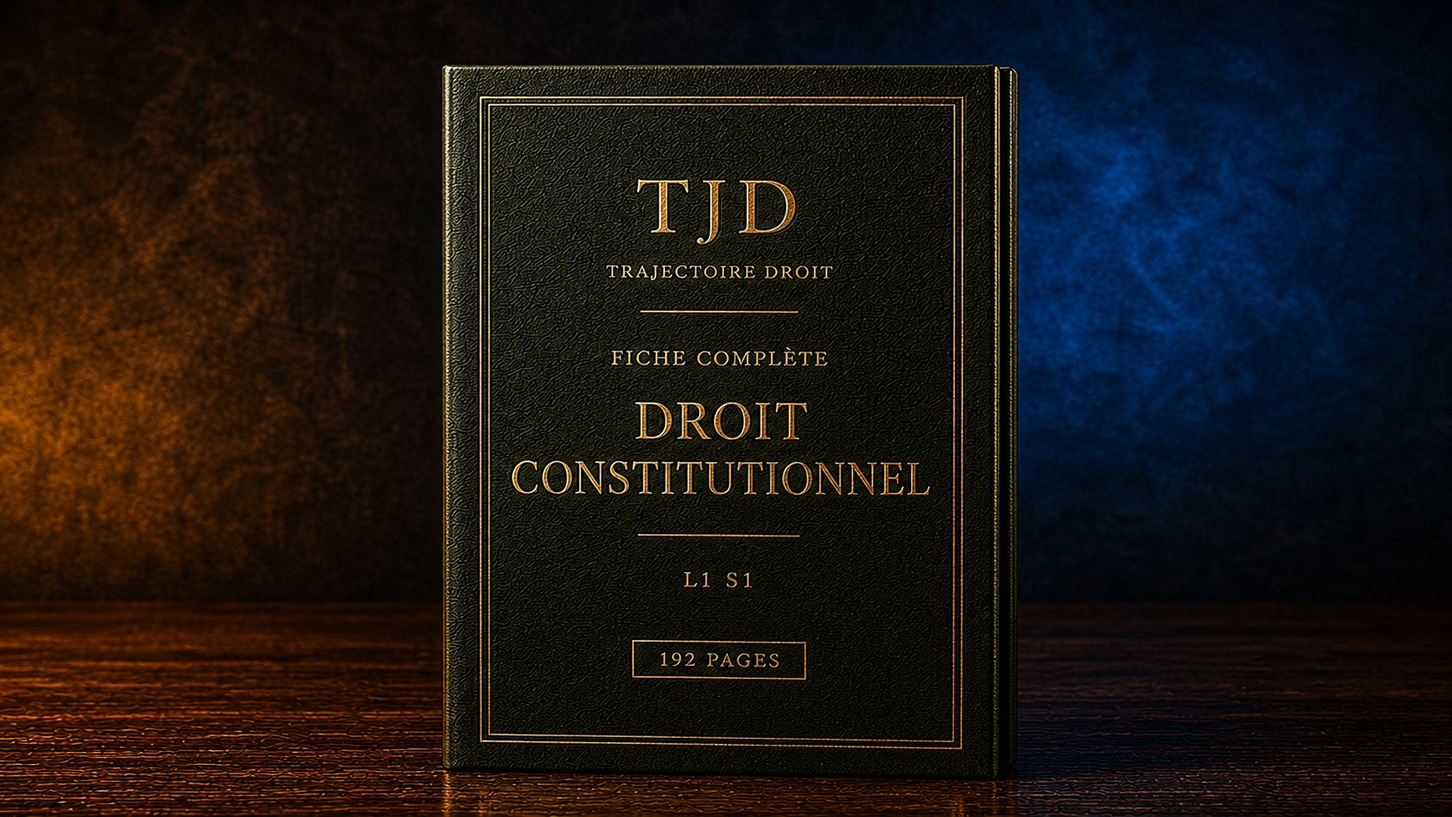
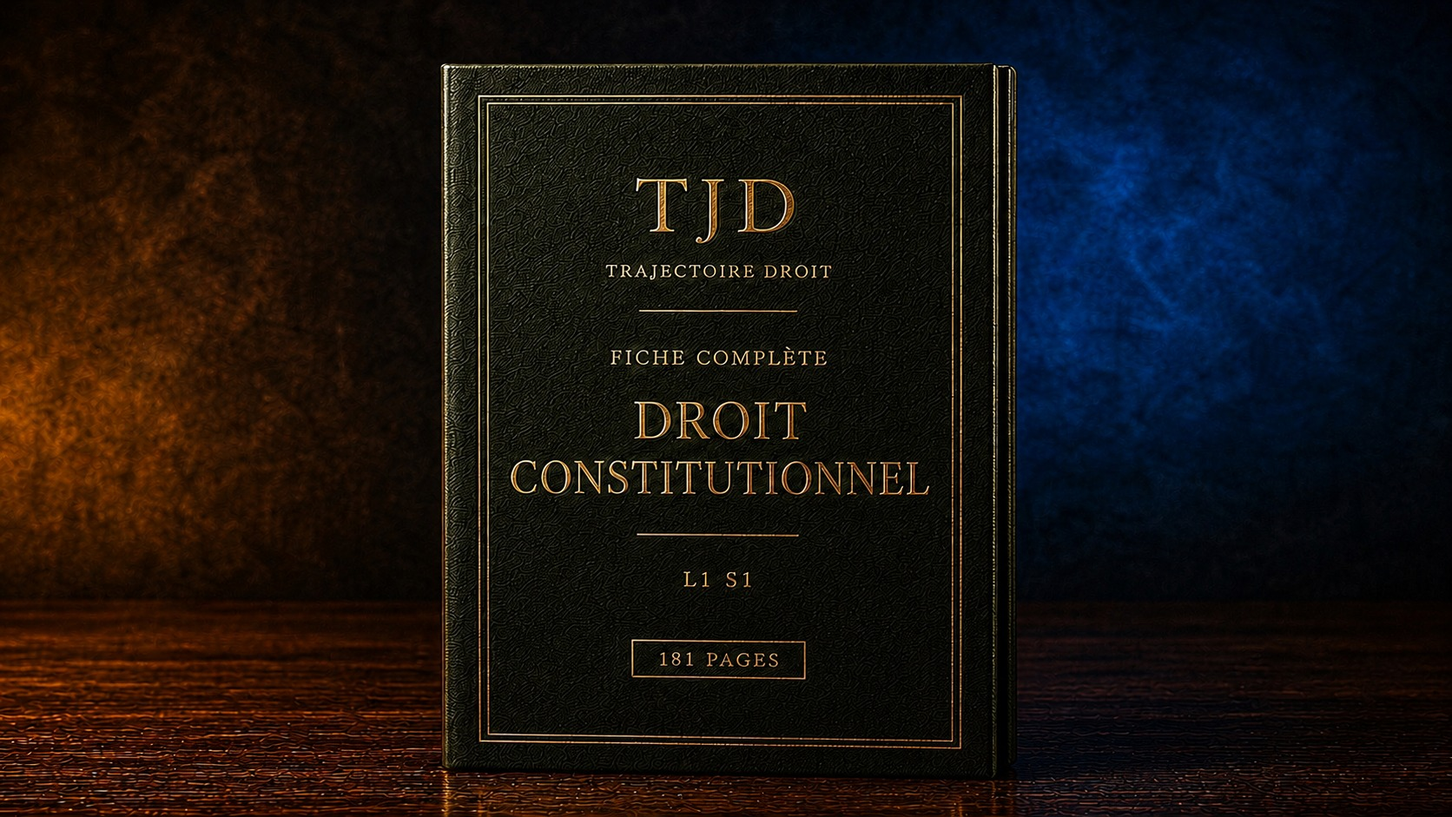
Corrige le nombre de pages affiché pour 8 fiches complètes
Les fiches Droit administratif S1, Droit constitutionnel S1, Histoire du
droit, Relations internationales, Droit des contrats L2 S1, Droit pénal
L2 S1, Droit des biens et Contrats spéciaux L3 avaient grossi depuis leur
publication, sans que les descriptions ni les couvertures visuelles du
site soient mises à jour. Recalcul du nombre de pages réel de chaque PDF,
correction des textes (formations.html, pages matière) et régénération
des 8 couvertures via ChatGPT pour que le badge de pages affiché à
l'écran corresponde au contenu réellement vendu.

diff --git a/formations.html b/formations.html
@@ -559,7 +559,7 @@
             <div class="product__thumb has-cover"><span class="badge badge--format">Fiche complète</span><span class="badge badge--popular">Populaire</span><img src="assets/covers/fiche-da-l2-s1.jpg" alt="Droit administratif , fiche complète, couverture Trajectoire Droit" loading="lazy"></div>
             <div class="product__body">
               <h3 class="product__title">Droit administratif S1</h3>
-              <div class="product__meta"><span>L2</span><span>·</span><span>Semestre 1</span><span>·</span><span>PDF · 67 p.</span></div>
+              <div class="product__meta"><span>L2</span><span>·</span><span>Semestre 1</span><span>·</span><span>PDF · 109 p.</span></div>
               <p class="product__desc">Acte administratif, service public, police administrative. Tout le premier semestre compilé et expliqué.</p>
               <button type="button" class="apercu-link" data-apercu='["assets/apercus/da-l2-s1-1.jpg","assets/apercus/da-l2-s1-2.jpg"]' data-apercu-title="Droit administratif · L2 Semestre 1" data-apercu-price="14,99 €" data-apercu-cta="fiche-da-l2-s1"><svg width="16" height="16" viewBox="0 0 24 24" fill="none" stroke="currentColor" stroke-width="2" stroke-linecap="round" stroke-linejoin="round"><path d="M2 12s3.5-7 10-7 10 7 10 7-3.5 7-10 7-10-7-10-7z"/><circle cx="12" cy="12" r="3"/></svg>Voir un aperçu</button>
               <details class="product__sommaire"><summary>Voir le sommaire (6 thèmes)</summary><ul class="product__sommaire-list"><li>L'identité du droit administratif</li><li>Le dualisme juridictionnel et le juge administratif</li><li>Le principe de légalité</li><li>Les sources de la légalité administrative</li><li>L'organisation administrative</li><li>Méthodologie, bilan et révisions</li></ul></details><div><span class="product__price">14,99 €</span></div>
@@ -583,7 +583,7 @@
             <div class="product__thumb has-cover"><span class="badge badge--format">Fiche complète</span><span class="badge badge--popular">Populaire</span><img src="assets/covers/fiche-constit-l1-s1.jpg" alt="Droit constitutionnel , fiche complète, couverture Trajectoire Droit" loading="lazy"></div>
             <div class="product__body">
               <h3 class="product__title">Droit constitutionnel S1</h3>
-              <div class="product__meta"><span>L1</span><span>·</span><span>Semestre 1</span><span>·</span><span>PDF · 192 p.</span></div>
+              <div class="product__meta"><span>L1</span><span>·</span><span>Semestre 1</span><span>·</span><span>PDF · 181 p.</span></div>
               <p class="product__desc">Théorie de l'État, Constitution, séparation des pouvoirs. Les fondations posées proprement.</p>
               <button type="button" class="apercu-link" data-apercu='["assets/apercus/constit-l1-s1-1.jpg", "assets/apercus/constit-l1-s1-2.jpg"]' data-apercu-title="Droit constitutionnel · L1 Semestre 1" data-apercu-price="14,99 €" data-apercu-cta="fiche-constit-l1-s1"><svg width="16" height="16" viewBox="0 0 24 24" fill="none" stroke="currentColor" stroke-width="2" stroke-linecap="round" stroke-linejoin="round"><path d="M2 12s3.5-7 10-7 10 7 10 7-3.5 7-10 7-10-7-10-7z"/><circle cx="12" cy="12" r="3"/></svg>Voir un aperçu</button>
               <details class="product__sommaire"><summary>Voir le sommaire (6 thèmes)</summary><ul class="product__sommaire-list"><li>Introduction au droit constitutionnel</li><li>Le cadre du pouvoir politique · l'état</li><li>La source du pouvoir politique · la souveraineté</li><li>Les fondements du pouvoir politique · la constitution</li><li>Les modes d'organisation du pouvoir politique</li><li>L'histoire constitutionnelle française</li></ul></details><div><span class="product__price">14,99 €</span></div>
@@ -619,7 +619,7 @@
             <div class="product__thumb has-cover"><span class="badge badge--format">Fiche complète</span><img src="assets/covers/fiche-hist-droit-l1.jpg" alt="Histoire du droit , fiche complète, couverture Trajectoire Droit" loading="lazy"></div>
             <div class="product__body">
               <h3 class="product__title">Histoire du droit</h3>
-              <div class="product__meta"><span>L1</span><span>·</span><span>Semestre 1</span><span>·</span><span>PDF · 139 p.</span></div>
+              <div class="product__meta"><span>L1</span><span>·</span><span>Semestre 1</span><span>·</span><span>PDF · 138 p.</span></div>
               <p class="product__desc">De Rome au Code civil, la construction du droit français expliquée pas à pas.</p>
               <button type="button" class="apercu-link" data-apercu='["assets/apercus/hist-droit-l1-1.jpg", "assets/apercus/hist-droit-l1-2.jpg"]' data-apercu-title="Histoire du droit · L1 Semestre 1" data-apercu-price="14,99 €" data-apercu-cta="fiche-hist-droit-l1"><svg width="16" height="16" viewBox="0 0 24 24" fill="none" stroke="currentColor" stroke-width="2" stroke-linecap="round" stroke-linejoin="round"><path d="M2 12s3.5-7 10-7 10 7 10 7-3.5 7-10 7-10-7-10-7z"/><circle cx="12" cy="12" r="3"/></svg>Voir un aperçu</button>
               <details class="product__sommaire"><summary>Voir le sommaire (6 thèmes)</summary><ul class="product__sommaire-list"><li>Introduction générale</li><li>L'héritage de rome : la naissance de l'état</li><li>La décadence de l'état : l'époque franque</li><li>Le morcellement féodal</li><li>La reconstruction de l'état monarchique</li><li>Le triomphe de l'état : la monarchie absolue</li></ul></details><div><span class="product__price">14,99 €</span></div>
@@ -643,7 +643,7 @@
             <div class="product__thumb has-cover"><span class="badge badge--format">Fiche complète</span><img src="assets/covers/fiche-relations-internationales-l1.jpg" alt="Relations internationales, fiche complète, couverture Trajectoire Droit" loading="lazy"></div>
             <div class="product__body">
               <h3 class="product__title">Relations internationales</h3>
-              <div class="product__meta"><span>L1</span><span>·</span><span>Année</span><span>·</span><span>PDF · 60 p.</span></div>
+              <div class="product__meta"><span>L1</span><span>·</span><span>Année</span><span>·</span><span>PDF · 111 p.</span></div>
               <p class="product__desc">Les rapports entre États et les grandes organisations internationales, expliqués clairement.</p>
               <details class="product__sommaire"><summary>Voir le sommaire (5 thèmes)</summary><ul class="product__sommaire-list"><li>Introduction à la société internationale</li><li>L'histoire des relations internationales</li><li>Les acteurs des relations internationales</li><li>La régulation des relations internationales : la paix</li><li>Le conflit et la mondialisation</li></ul></details><div><span class="product__price">14,99 €</span></div>
               <button type="button" class="btn btn--primary btn--full product__cta" data-tjd-produit="fiche-relations-internationales-l1">Acheter · 14,99 €</button>
@@ -678,7 +678,7 @@
             <div class="product__thumb has-cover"><span class="badge badge--format">Fiche complète</span><span class="badge badge--popular">Populaire</span><img src="assets/covers/fiche-contrats-l2-s1.jpg" alt="Droit des contrats , fiche complète, couverture Trajectoire Droit" loading="lazy"></div>
             <div class="product__body">
               <h3 class="product__title">Droit des contrats</h3>
-              <div class="product__meta"><span>L2</span><span>·</span><span>Semestre 1</span><span>·</span><span>PDF · 160 p.</span></div>
+              <div class="product__meta"><span>L2</span><span>·</span><span>Semestre 1</span><span>·</span><span>PDF · 145 p.</span></div>
               <p class="product__desc">Formation, validité, exécution du contrat. La réforme de 2016 intégrée.</p>
               <button type="button" class="apercu-link" data-apercu='["assets/apercus/contrats-l2-s1-1.jpg", "assets/apercus/contrats-l2-s1-2.jpg"]' data-apercu-title="Droit des contrats · L2 Semestre 1" data-apercu-price="14,99 €" data-apercu-cta="fiche-contrats-l2-s1"><svg width="16" height="16" viewBox="0 0 24 24" fill="none" stroke="currentColor" stroke-width="2" stroke-linecap="round" stroke-linejoin="round"><path d="M2 12s3.5-7 10-7 10 7 10 7-3.5 7-10 7-10-7-10-7z"/><circle cx="12" cy="12" r="3"/></svg>Voir un aperçu</button>
               <details class="product__sommaire"><summary>Voir le sommaire (6 thèmes)</summary><ul class="product__sommaire-list"><li>Introduction au droit des contrats</li><li>La formation du contrat</li><li>La validité du contrat</li><li>Les effets du contrat</li><li>L'inexécution du contrat</li><li>Bilan et révisions</li></ul></details><div><span class="product__price">14,99 €</span></div>
@@ -714,7 +714,7 @@
             <div class="product__thumb has-cover"><span class="badge badge--format">Fiche complète</span><img src="assets/covers/fiche-penal-l2-s1.jpg" alt="Droit pénal , fiche complète, couverture Trajectoire Droit" loading="lazy"></div>
             <div class="product__body">
               <h3 class="product__title">Droit pénal</h3>
-              <div class="product__meta"><span>L2</span><span>·</span><span>Semestre 1</span><span>·</span><span>PDF · 50 p.</span></div>
+              <div class="product__meta"><span>L2</span><span>·</span><span>Semestre 1</span><span>·</span><span>PDF · 95 p.</span></div>
               <p class="product__desc">Responsabilité pénale, complicité, tentative, peines. Le pénal approfondi.</p>
               <button type="button" class="apercu-link" data-apercu='["assets/apercus/penal-l2-s1-1.jpg", "assets/apercus/penal-l2-s1-2.jpg"]' data-apercu-title="Droit pénal · L2 Semestre 1" data-apercu-price="14,99 €" data-apercu-cta="fiche-penal-l2-s1"><svg width="16" height="16" viewBox="0 0 24 24" fill="none" stroke="currentColor" stroke-width="2" stroke-linecap="round" stroke-linejoin="round"><path d="M2 12s3.5-7 10-7 10 7 10 7-3.5 7-10 7-10-7-10-7z"/><circle cx="12" cy="12" r="3"/></svg>Voir un aperçu</button>
               <details class="product__sommaire"><summary>Voir le sommaire (3 thèmes)</summary><ul class="product__sommaire-list"><li>Introduction au droit pénal</li><li>L'infraction pénale</li><li>Le responsable de l'infraction pénale</li></ul></details><div><span class="product__price">14,99 €</span></div>
@@ -726,7 +726,7 @@
             <div class="product__thumb has-cover"><span class="badge badge--format">Fiche complète</span><img src="assets/covers/fiche-biens-l2.jpg" alt="Droit des biens , fiche complète, couverture Trajectoire Droit" loading="lazy"></div>
             <div class="product__body">
               <h3 class="product__title">Droit des biens</h3>
-              <div class="product__meta"><span>L2</span><span>·</span><span>Année</span><span>·</span><span>PDF · 63 p.</span></div>
+              <div class="product__meta"><span>L2</span><span>·</span><span>Année</span><span>·</span><span>PDF · 109 p.</span></div>
               <p class="product__desc">Propriété, possession, démembrements, indivision. Le droit des biens en entier.</p>
               <button type="button" class="apercu-link" data-apercu='["assets/apercus/biens-l2-1.jpg", "assets/apercus/biens-l2-2.jpg"]' data-apercu-title="Droit des biens · L2" data-apercu-price="14,99 €" data-apercu-cta="fiche-biens-l2"><svg width="16" height="16" viewBox="0 0 24 24" fill="none" stroke="currentColor" stroke-width="2" stroke-linecap="round" stroke-linejoin="round"><path d="M2 12s3.5-7 10-7 10 7 10 7-3.5 7-10 7-10-7-10-7z"/><circle cx="12" cy="12" r="3"/></svg>Voir un aperçu</button>
               <details class="product__sommaire"><summary>Voir le sommaire (6 thèmes)</summary><ul class="product__sommaire-list"><li>La notion de bien et le patrimoine</li><li>La possession</li><li>Le droit de propriété</li><li>Les modes d'acquisition de la propriété</li><li>Les démembrements de la propriété</li><li>La propriété collective</li></ul></details><div><span class="product__price">14,99 €</span></div>
@@ -762,7 +762,7 @@
             <div class="product__thumb has-cover"><span class="badge badge--format">Fiche complète</span><img src="assets/covers/fiche-contrats-speciaux-l3.jpg" alt="Contrats spéciaux , fiche complète, couverture Trajectoire Droit" loading="lazy"></div>
             <div class="product__body">
               <h3 class="product__title">Contrats spéciaux</h3>
-              <div class="product__meta"><span>L3</span><span>·</span><span>Année</span><span>·</span><span>PDF · 66 p.</span></div>
+              <div class="product__meta"><span>L3</span><span>·</span><span>Année</span><span>·</span><span>PDF · 118 p.</span></div>
               <p class="product__desc">Vente, bail, mandat, prêt. Les contrats du quotidien décortiqués.</p>
               <button type="button" class="apercu-link" data-apercu='["assets/apercus/contrats-speciaux-l3-1.jpg", "assets/apercus/contrats-speciaux-l3-2.jpg"]' data-apercu-title="Contrats spéciaux · L3" data-apercu-price="14,99 €" data-apercu-cta="fiche-contrats-speciaux-l3"><svg width="16" height="16" viewBox="0 0 24 24" fill="none" stroke="currentColor" stroke-width="2" stroke-linecap="round" stroke-linejoin="round"><path d="M2 12s3.5-7 10-7 10 7 10 7-3.5 7-10 7-10-7-10-7z"/><circle cx="12" cy="12" r="3"/></svg>Voir un aperçu</button>
               <details class="product__sommaire"><summary>Voir le sommaire (5 thèmes)</summary><ul class="product__sommaire-list"><li>Introduction au droit des contrats spéciaux</li><li>Les contrats translatifs de propriété : la vente</li><li>Les contrats relatifs à l'usage d'une chose</li><li>Les contrats de service</li><li>Les contrats de distribution, de règlement et</li></ul></details><div><span class="product__price">14,99 €</span></div>

diff --git a/droit-constitutionnel-l1.html b/droit-constitutionnel-l1.html
@@ -64,7 +64,7 @@
       {
         "@type": "Product",
         "name": "Fiche complète de droit constitutionnel L1, semestre 1",
-        "description": "Fiche complète de droit constitutionnel L1 semestre 1, 192 pages, la théorie de l'État, la Constitution, la séparation des pouvoirs.",
+        "description": "Fiche complète de droit constitutionnel L1 semestre 1, 181 pages, la théorie de l'État, la Constitution, la séparation des pouvoirs.",
         "image": "https://trajectoiredroit.com/assets/covers/fiche-constit-l1-s1.jpg",
         "brand": { "@type": "Brand", "name": "TrajectoireDroit" },
         "offers": {
@@ -129,7 +129,7 @@
           {
             "@type": "Question",
             "name": "Où trouver un cours et une fiche de révision de droit constitutionnel L1 en PDF ?",
-            "acceptedAnswer": { "@type": "Answer", "text": "Sur cette page, tu as déjà l'essentiel du cours du semestre 1 et du semestre 2, avec les notions, les grandes dates et la méthode. Pour réviser en profondeur, les fiches complètes reprennent tout le programme en PDF, en couleur et avec les schémas, prêtes à imprimer. Le semestre 1 fait 192 pages et le semestre 2, 112 pages." }
+            "acceptedAnswer": { "@type": "Answer", "text": "Sur cette page, tu as déjà l'essentiel du cours du semestre 1 et du semestre 2, avec les notions, les grandes dates et la méthode. Pour réviser en profondeur, les fiches complètes reprennent tout le programme en PDF, en couleur et avec les schémas, prêtes à imprimer. Le semestre 1 fait 181 pages et le semestre 2, 112 pages." }
           },
           {
             "@type": "Question",
@@ -413,7 +413,7 @@
           <div class="card card--product">
             <div class="product__thumb has-cover"><span class="badge badge--format">Fiche complète</span><img src="assets/covers/fiche-constit-l1-s1.jpg" alt="Couverture de la fiche Droit constit S1" loading="lazy"></div>
             <div class="product__body">
-            <h3 style="margin-top:0">Droit constit S1 · 192 p.</h3>
+            <h3 style="margin-top:0">Droit constit S1 · 181 p.</h3>
             <p style="color:var(--body); font-size:.95rem">Théorie de l'État, Constitution, séparation des pouvoirs. Toutes les fondations de la matière.</p>
             <button type="button" class="apercu-link" data-apercu='["assets/apercus/constit-l1-s1-1.jpg", "assets/apercus/constit-l1-s1-2.jpg"]' data-apercu-title="Droit constitutionnel L1 · Semestre 1" data-apercu-price="14,99 €" data-apercu-cta="fiche-constit-l1-s1"><svg width="16" height="16" viewBox="0 0 24 24" fill="none" stroke="currentColor" stroke-width="2" stroke-linecap="round" stroke-linejoin="round"><path d="M2 12s3.5-7 10-7 10 7 10 7-3.5 7-10 7-10-7-10-7z"/><circle cx="12" cy="12" r="3"/></svg>Voir un aperçu</button>
             <p style="font-family:var(--font-display); font-size:1.6rem; font-weight:700; margin:6px 0">14,99 €</p>
@@ -539,7 +539,7 @@
         <p style="color:var(--body); line-height:1.75; margin-bottom:24px">De cette séparation naissent deux grandes familles de régimes. Dans le <strong>régime présidentiel</strong>, la séparation est rigide. C'est le modèle des États-Unis, né avec la Constitution de 1787. Le président et le Congrès sont élus séparément et vont chacun au bout de leur mandat. Le président ne peut pas dissoudre le Congrès, et le Congrès ne peut pas renverser le président par une motion de censure. Dans le <strong>régime parlementaire</strong>, la séparation est souple. Il est né peu à peu en Angleterre au XVIIIe siècle, quand le roi George Ier, qui ne parlait pas l'anglais, a laissé Robert Walpole diriger le cabinet à partir de 1721. Ici, le gouvernement est responsable devant le Parlement, qui peut le renverser, et l'exécutif peut en retour dissoudre l'assemblée. La France est officiellement un régime parlementaire, avec une forte dose de pouvoir présidentiel en plus. Je détaille tout ce mécanisme, les citations de Montesquieu, la séparation souple et rigide et les trois types de régimes, dans ma page dédiée à <a href="la-separation-des-pouvoirs.html">la séparation des pouvoirs</a>.</p>
 
         <div class="card" style="border-left:4px solid var(--accent, #1A2851); padding:20px 24px; margin-top:8px">
-          <p style="margin:0; color:var(--body); line-height:1.75">Voilà les fondations du semestre 1. Le semestre 2 quitte la théorie et entre dans le détail de la Ve République, c'est-à-dire le statut et les pouvoirs du Président, le rôle du Gouvernement et du Parlement, et le contrôle de constitutionnalité assuré par le Conseil constitutionnel, avec la question prioritaire de constitutionnalité depuis 2010. Tu retrouves le cours complet du semestre 1 en PDF, 192 pages en couleur avec les schémas, dans les fiches complètes, et la méthode complète dans notre <a href="methode-dissertation-juridique.html">méthode de la dissertation juridique</a>.</p>
+          <p style="margin:0; color:var(--body); line-height:1.75">Voilà les fondations du semestre 1. Le semestre 2 quitte la théorie et entre dans le détail de la Ve République, c'est-à-dire le statut et les pouvoirs du Président, le rôle du Gouvernement et du Parlement, et le contrôle de constitutionnalité assuré par le Conseil constitutionnel, avec la question prioritaire de constitutionnalité depuis 2010. Tu retrouves le cours complet du semestre 1 en PDF, 181 pages en couleur avec les schémas, dans les fiches complètes, et la méthode complète dans notre <a href="methode-dissertation-juridique.html">méthode de la dissertation juridique</a>.</p>
         </div>
       </div>
     </section>
@@ -695,7 +695,7 @@
           <details class="accordion__item"><summary><h3>Quelles dates faut-il retenir ?</h3></summary><div class="accordion__body">1789 pour la Déclaration des droits, 1958 pour la Constitution de la Ve, 1971 pour la création du bloc de constitutionnalité, 1974 pour l'élargissement de la saisine du Conseil et 2008 pour la QPC.</div></details>
           <details class="accordion__item"><summary><h3>Quelle est la méthode de la dissertation ?</h3></summary><div class="accordion__body">On analyse les termes du sujet, on dégage une problématique, puis on construit un plan en deux parties et deux sous-parties. L'introduction se fait en entonnoir et chaque idée est illustrée par un exemple constitutionnel ou historique.</div></details>
           <details class="accordion__item"><summary><h3>Quelle différence entre le S1 et le S2 ?</h3></summary><div class="accordion__body">Le premier semestre est plus théorique : l'État, la souveraineté, la Constitution, la séparation des pouvoirs. Le second porte sur la Ve République : son histoire, ses institutions et le contrôle de constitutionnalité.</div></details>
-          <details class="accordion__item"><summary><h3>Où trouver un cours et une fiche de révision de droit constitutionnel L1 en PDF ?</h3></summary><div class="accordion__body">Sur cette page, tu as déjà l'essentiel du cours du semestre 1 et du semestre 2, avec les notions, les grandes dates et la méthode. Pour réviser en profondeur, les fiches complètes reprennent tout le programme en PDF, en couleur et avec les schémas, prêtes à imprimer. Le semestre 1 fait 192 pages et le semestre 2, 112 pages.</div></details>
+          <details class="accordion__item"><summary><h3>Où trouver un cours et une fiche de révision de droit constitutionnel L1 en PDF ?</h3></summary><div class="accordion__body">Sur cette page, tu as déjà l'essentiel du cours du semestre 1 et du semestre 2, avec les notions, les grandes dates et la méthode. Pour réviser en profondeur, les fiches complètes reprennent tout le programme en PDF, en couleur et avec les schémas, prêtes à imprimer. Le semestre 1 fait 181 pages et le semestre 2, 112 pages.</div></details>
           <details class="accordion__item"><summary><h3>Quel est le programme du droit constitutionnel L1 au semestre 1 ?</h3></summary><div class="accordion__body">Le semestre 1 pose la théorie générale. Tu étudies l'État et ses trois éléments, les formes d'État avec l'État unitaire et l'État fédéral, la souveraineté nationale et populaire, la Constitution et sa révision par l'article 89, puis la séparation des pouvoirs avec les régimes parlementaire et présidentiel. Le semestre 2 passe ensuite aux institutions de la Ve République.</div></details>
           <details class="accordion__item"><summary><h3>Vos fiches suivent-elles le programme de ma fac ?</h3></summary><div class="accordion__body">Oui, le contenu suit le programme commun aux facultés françaises. Les particularités de ton enseignant viennent ensuite se greffer dessus sans rien changer aux fondations. Les fiches sont à jour en 2026, et je les mets à jour très régulièrement, chaque année.</div></details>
           <details class="accordion__item"><summary><h3>Comment réviser le droit constitutionnel efficacement en L1 ?</h3></summary><div class="accordion__body">Pars d'une grille de lecture claire, la théorie de l'État, la Constitution, la séparation des pouvoirs, puis les institutions de la Ve République. Fais une fiche par notion avec sa définition et sa date clé, puis entraîne-toi sur la dissertation, l'exercice central de la matière. Relis chaque semaine plutôt qu'en bloc avant l'examen, cette matière très logique se retient mal par cœur et bien par la compréhension des liens entre les notions.</div></details>

diff --git a/droit-administratif-l2.html b/droit-administratif-l2.html
@@ -64,7 +64,7 @@
       {
         "@type": "Product",
         "name": "Fiche complète de droit administratif L2, semestre 1",
-        "description": "Fiche complète de droit administratif L2 semestre 1, 67 pages, acte administratif, service public, police administrative, organisation administrative.",
+        "description": "Fiche complète de droit administratif L2 semestre 1, 109 pages, acte administratif, service public, police administrative, organisation administrative.",
         "image": "https://trajectoiredroit.com/assets/covers/fiche-da-l2-s1.jpg",
         "brand": { "@type": "Brand", "name": "TrajectoireDroit" },
         "offers": {
@@ -394,12 +394,12 @@
     <section class="section section--alt" id="fiches">
       <div class="container container--narrow text-center">
         <h2 class="h2">Le résumé complet du cours de droit administratif L2 en PDF</h2>
-        <p class="lead" style="max-width:620px; margin:14px auto 28px">Tout ce qui est sur cette page, mais en détail, mis en couleur, avec les schémas, les arrêts replacés dans leur contexte et la méthode appliquée. Deux semestres, 158 pages au total, agréables à lire et faciles à mémoriser. Accès à vie, mises à jour incluses.</p>
+        <p class="lead" style="max-width:620px; margin:14px auto 28px">Tout ce qui est sur cette page, mais en détail, mis en couleur, avec les schémas, les arrêts replacés dans leur contexte et la méthode appliquée. Deux semestres, 200 pages au total, agréables à lire et faciles à mémoriser. Accès à vie, mises à jour incluses.</p>
         <div class="grid-2" style="gap:20px; max-width:760px; margin:0 auto 24px">
           <div class="card card--product">
             <div class="product__thumb has-cover"><span class="badge badge--format">Fiche complète</span><img src="assets/covers/fiche-da-l2-s1.jpg" alt="Couverture de la fiche Droit admin S1" loading="lazy"></div>
             <div class="product__body">
-            <h3 style="margin-top:0">Droit admin S1 · 67 p.</h3>
+            <h3 style="margin-top:0">Droit admin S1 · 109 p.</h3>
             <p style="color:var(--body); font-size:.95rem">Acte administratif, service public, police administrative, organisation administrative.</p>
             <button type="button" class="apercu-link" data-apercu='["assets/apercus/da-l2-s1-1.jpg", "assets/apercus/da-l2-s1-2.jpg"]' data-apercu-title="Droit administratif L2 · Semestre 1" data-apercu-price="14,99 €" data-apercu-cta="fiche-da-l2-s1"><svg width="16" height="16" viewBox="0 0 24 24" fill="none" stroke="currentColor" stroke-width="2" stroke-linecap="round" stroke-linejoin="round"><path d="M2 12s3.5-7 10-7 10 7 10 7-3.5 7-10 7-10-7-10-7z"/><circle cx="12" cy="12" r="3"/></svg>Voir un aperçu</button>
             <p style="font-family:var(--font-display); font-size:1.6rem; font-weight:700; margin:6px 0">14,99 €</p>

diff --git a/droit-des-contrats-l2.html b/droit-des-contrats-l2.html
@@ -324,12 +324,12 @@
     <section class="section section--alt" id="fiches">
       <div class="container container--narrow text-center">
         <h2 class="h2">Le cours de droit des contrats L2, complet et en PDF</h2>
-        <p class="lead" style="max-width:620px; margin:14px auto 28px">Tout le cours, en clair et en couleur, avec la réforme de 2016 parfaitement intégrée, les articles replacés et la méthode appliquée. 160 pages. Accès à vie, mises à jour incluses.</p>
+        <p class="lead" style="max-width:620px; margin:14px auto 28px">Tout le cours, en clair et en couleur, avec la réforme de 2016 parfaitement intégrée, les articles replacés et la méthode appliquée. 145 pages. Accès à vie, mises à jour incluses.</p>
         <div style="max-width:420px; margin:0 auto 16px">
           <div class="card card--product">
             <div class="product__thumb has-cover"><span class="badge badge--format">Fiche complète</span><img src="assets/covers/fiche-contrats-l2-s1.jpg" alt="Couverture de la fiche Droit des contrats" loading="lazy"></div>
             <div class="product__body">
-            <h3 style="margin-top:0">Droit des contrats · 160 p.</h3>
+            <h3 style="margin-top:0">Droit des contrats · 145 p.</h3>
             <p style="color:var(--body); font-size:.95rem">Formation, validité, exécution du contrat. La réforme de 2016 intégrée.</p>
             <button type="button" class="apercu-link" data-apercu='["assets/apercus/contrats-l2-s1-1.jpg", "assets/apercus/contrats-l2-s1-2.jpg"]' data-apercu-title="Droit des contrats L2" data-apercu-price="14,99 €" data-apercu-cta="fiche-contrats-l2-s1"><svg width="16" height="16" viewBox="0 0 24 24" fill="none" stroke="currentColor" stroke-width="2" stroke-linecap="round" stroke-linejoin="round"><path d="M2 12s3.5-7 10-7 10 7 10 7-3.5 7-10 7-10-7-10-7z"/><circle cx="12" cy="12" r="3"/></svg>Voir un aperçu</button>
             <p style="font-family:var(--font-display); font-size:1.6rem; font-weight:700; margin:6px 0">14,99 €</p>

diff --git a/droit-penal-l2.html b/droit-penal-l2.html
@@ -64,7 +64,7 @@
       {
         "@type": "Product",
         "name": "Fiche complète de droit pénal L2",
-        "description": "Fiche complète de droit pénal L2, 50 pages, l'infraction et ses éléments, la responsabilité pénale, la complicité, la tentative, les causes d'irresponsabilité et les peines, avec les articles et les arrêts.",
+        "description": "Fiche complète de droit pénal L2, 95 pages, l'infraction et ses éléments, la responsabilité pénale, la complicité, la tentative, les causes d'irresponsabilité et les peines, avec les articles et les arrêts.",
         "image": "https://trajectoiredroit.com/assets/covers/fiche-penal-l2-s1.jpg",
         "brand": { "@type": "Brand", "name": "TrajectoireDroit" },
         "offers": {

diff --git a/contrats-speciaux-l3.html b/contrats-speciaux-l3.html
@@ -64,7 +64,7 @@
       {
         "@type": "Product",
         "name": "Fiche complète de contrats spéciaux L3",
-        "description": "Fiche complète de contrats spéciaux L3, 66 pages, la vente, le prix, le transfert de propriété, les vices cachés, l'éviction, le bail, le mandat et le prêt, avec les articles et les arrêts.",
+        "description": "Fiche complète de contrats spéciaux L3, 118 pages, la vente, le prix, le transfert de propriété, les vices cachés, l'éviction, le bail, le mandat et le prêt, avec les articles et les arrêts.",
         "image": "https://trajectoiredroit.com/assets/covers/fiche-contrats-speciaux-l3.jpg",
         "brand": { "@type": "Brand", "name": "TrajectoireDroit" },
         "offers": {

diff --git a/histoire-du-droit-l1.html b/histoire-du-droit-l1.html
@@ -64,7 +64,7 @@
       {
         "@type": "Product",
         "name": "Fiche complète d'histoire du droit L1",
-        "description": "Fiche complète d'histoire du droit L1, 139 pages, de Rome au Code civil, la construction du droit français expliquée pas à pas.",
+        "description": "Fiche complète d'histoire du droit L1, 138 pages, de Rome au Code civil, la construction du droit français expliquée pas à pas.",
         "image": "https://trajectoiredroit.com/assets/covers/fiche-hist-droit-l1.jpg",
         "brand": { "@type": "Brand", "name": "TrajectoireDroit" },
         "offers": {
